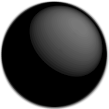
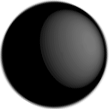
Added Reversi token rotation graphics

diff --git a/WebContent/js/src/reversi/ui/GameUIController.js b/WebContent/js/src/reversi/ui/GameUIController.js
@@ -3,26 +3,58 @@ var REVERSI = REVERSI = REVERSI || {};
 /**
  * @public
  * @constructor
- * @param {REVERSI.BoardCellGameEntity[]} boardCellGameEntities
  * @returns {REVERSI.GameUIController}
  */
-REVERSI.GameUIController = function(boardCellGameEntities) {
+REVERSI.GameUIController = function() {
 	GAME_LOOP.GameEntity.call(this, 0, 0, 0, 0);
 	
-	this.boardCellGameEntities = boardCellGameEntities;
+	this.boardCellGameEntities;
 	
 	this.reversiGameState;
 	this.reversiEvaluator;
 	this.gameArbiter;
 	
 	this.humanMovePosition;
-	true.waitAfterHumanMove = false;
-	
-	this.beginGame();
 };
 
 REVERSI.GameUIController.prototype = Object.create(GAME_LOOP.GameEntity.prototype);
 REVERSI.GameUIController.prototype.constructor = REVERSI.GameUIController;
+
+/**
+ * @private
+ * @param {MINIMAX.Player} cpuPlayer
+ * @param {Number} minimaxEvaluationHorizon
+ */
+REVERSI.GameUIController.prototype.beginGame =  function(cpuPlayer, minimaxEvaluationHorizon) {
+	this.reversiGameState = new REVERSI.ReversiGameState(MINIMAX.PLAYER_1);
+	this.reversiEvaluator = new REVERSI.ReversiEvaluator(cpuPlayer);
+	this.reversiEvaluator.addEvaluationCriterion(REVERSI.EVALUATION_CRITERIA_DICTIONARY["MOVE_COUNTER"]);
+	this.reversiEvaluator.addEvaluationCriterion(REVERSI.EVALUATION_CRITERIA_DICTIONARY["EDGE_TOKEN_COUNTER"]);
+	this.reversiEvaluator.evaluationHorizon = minimaxEvaluationHorizon;
+	this.gameArbiter = new MINIMAX.GameArbiter(this.reversiEvaluator, this.reversiGameState);
+	
+	var gameBoardEntity = new REVERSI.BoardGameEntity();
+	
+	var gameEntitiesIdx = 0;
+	var gameEntities = [];
+	var boardCellGameEntities = [];
+	gameEntities[gameEntitiesIdx++] = gameBoardEntity;		
+	for(var x = 0; x < 8; x++) {
+		boardCellGameEntities[x] = [];
+		for(var y = 0; y < 8; y++) {
+			var boardCellGameEntity = new REVERSI.BoardCellGameEntity(x, y);
+			gameEntities[gameEntitiesIdx++] = boardCellGameEntity;
+			boardCellGameEntities[x][y] = boardCellGameEntity;
+		}
+	}
+	this.boardCellGameEntities = boardCellGameEntities;
+	gameEntities[gameEntitiesIdx++] = this;
+	
+	var inputEventQueue = new GAME_LOOP.Queue(10);
+	new GAME_LOOP.CanvasMouseListener(inputEventQueue);
+	var gameLoop = new GAME_LOOP.GameLoop(gameEntities, inputEventQueue, REVERSI.UI.BOARD_SIZE, REVERSI.UI.BOARD_SIZE);
+	gameLoop.start();
+};
 
 /**
  * @public
@@ -40,28 +72,38 @@ REVERSI.GameUIController.prototype.processInput =  function(inputEvent) {
  * @public
  */
 REVERSI.GameUIController.prototype.updateState =  function() {
-	this.updateCellsTokens();
+	if(this.areTokensFlipping()) {
+		return;
+	}
 	if(this.reversiGameState.isGameEnded()) {
-		console.log("game ended");
 		return;
 	}
 	if(this.reversiGameState.getPlayerToMove() === this.gameArbiter.getCpuPlayer()) {
-		if(this.waitAfterHumanMove) {
-			this.waitAfterHumanMove = false;
-			return;
-		}
 		this.reversiGameState = this.gameArbiter.advanceGame();
+		this.updateCellsTokens();
 	} else {
 		if(this.humanMovePosition !== undefined) {
 			try {
 				this.reversiGameState = this.gameArbiter.advanceGame(this.humanMovePosition);
-				this.waitAfterHumanMove = true;
+				this.updateCellsTokens();	
 				this.humanMovePosition = undefined;
 			} catch(e) {
 				console.log(e);
 				this.humanMovePosition = undefined;
 			}
 		}
+	}
+};
+
+/**
+ * @public
+ * @param {CanvasRenderingContext2D} context
+ */
+REVERSI.GameUIController.prototype.updateGraphics =  function(context) {
+	if(this.areTokensFlipping()) {
+		$("body").css("cursor", "progress");
+	} else {
+		$("body").css("cursor", "default");
 	}
 };
 
@@ -84,22 +126,33 @@ REVERSI.GameUIController.prototype.highligtCell =  function(inputEvent) {
 /**
  * @private
  */
-REVERSI.GameUIController.prototype.updateCellsTokens =  function(inputEvent) {
-	for(var x = 0; x < 8; x++) {
-		for(var y = 0; y < 8; y++) {
-			this.boardCellGameEntities[x][y].tokenType = this.reversiGameState.getTokenType(x, y);
-		}
+REVERSI.GameUIController.prototype.updateCellsTokens =  function() {
+	var lastMove = this.reversiGameState.lastMove;
+	if(lastMove === undefined) {
+		return;
+	}
+	var tokenType = REVERSI.TOKEN_TYPE_WHITE;
+	if(lastMove.player === MINIMAX.PLAYER_1) {
+		tokenType = REVERSI.TOKEN_TYPE_BLACK;
+	}
+	this.boardCellGameEntities[lastMove.position.x][lastMove.position.y].tokenType = tokenType;
+	
+	for(var i = 0; i < lastMove.flippedTokensPositions.length; i++) {
+		var flippedPosition = lastMove.flippedTokensPositions[i];
+		this.boardCellGameEntities[flippedPosition.x][flippedPosition.y].flip();
 	}
 };
 
 /**
  * @private
  */
-REVERSI.GameUIController.prototype.beginGame =  function() {
-	this.reversiGameState = new REVERSI.ReversiGameState(MINIMAX.PLAYER_1);
-	this.reversiEvaluator = new REVERSI.ReversiEvaluator(MINIMAX.PLAYER_2);
-	this.reversiEvaluator.addEvaluationCriterion(REVERSI.EVALUATION_CRITERIA_DICTIONARY["MOVE_COUNTER"]);
-	this.reversiEvaluator.addEvaluationCriterion(REVERSI.EVALUATION_CRITERIA_DICTIONARY["EDGE_TOKEN_COUNTER"]);
-	this.reversiEvaluator.evaluationHorizon = 5;
-	this.gameArbiter = new MINIMAX.GameArbiter(this.reversiEvaluator, this.reversiGameState);
+REVERSI.GameUIController.prototype.areTokensFlipping = function() {
+	for(var x = 0; x < 8; x++) {
+		for(var y = 0; y < 8; y++) {
+			if(this.boardCellGameEntities[x][y].isFlipping()) {
+				return true;
+			}
+		}
+	}
+	return false;
 };

diff --git a/WebContent/js/src/reversi/ui/BoardCellGameEntity.js b/WebContent/js/src/reversi/ui/BoardCellGameEntity.js
@@ -5,10 +5,9 @@ var REVERSI = REVERSI = REVERSI || {};
  * @constructor
  * @param {Number} cellX
  * @param {Number} cellY
- * @param {REVERSI.TokenType} tokenType
  * @returns {REVERSI.BoardCellGameEntity}
  */
-REVERSI.BoardCellGameEntity = function(cellX, cellY, tokenType) {
+REVERSI.BoardCellGameEntity = function(cellX, cellY) {
 	GAME_LOOP.GameEntity.call(this, 
 			cellX * REVERSI.UI.CELL_SIZE, 
 			cellY * REVERSI.UI.CELL_SIZE, 
@@ -17,7 +16,14 @@ REVERSI.BoardCellGameEntity = function(cellX, cellY, tokenType) {
 	
 	this.cellX = cellX;
 	this.cellY = cellY;
-	this.tokenType = tokenType;
+	if((cellX == 3 && cellY == 3) || (cellX == 4 && cellY == 4)) {
+		this.tokenType = REVERSI.TOKEN_TYPE_WHITE;
+	} else if((cellX == 3 && cellY == 4) || (cellX == 4 && cellY == 3)) {
+		this.tokenType = REVERSI.TOKEN_TYPE_BLACK;
+	} else {
+		this.tokenType = REVERSI.TOKEN_TYPE_EMPTY;
+	}
+	
 	
 	this.imgWhiteToken = new Image();
 	this.imgWhiteToken.src = "img/token_white.png";
@@ -34,13 +40,13 @@ REVERSI.BoardCellGameEntity = function(cellX, cellY, tokenType) {
 	this.tokenAnimationB2W = new GAME_LOOP.AtlasAnimation(
 			REVERSI.UI.TOKEN_ROTATION_IMAGE_ATLAS, 
 			REVERSI.UI.TOKEN_ROTATION_FRAME_CROPS_B2W, 
-			11,
-			true);
+			11);
 	this.tokenAnimationW2B = new GAME_LOOP.AtlasAnimation(
 			REVERSI.UI.TOKEN_ROTATION_IMAGE_ATLAS, 
 			REVERSI.UI.TOKEN_ROTATION_FRAME_CROPS_W2B, 
-			11,
-			true);
+			11);
+	
+	this.currentFlipAnimation;
 };
 
 REVERSI.BoardCellGameEntity.prototype = Object.create(GAME_LOOP.GameEntity.prototype);
@@ -49,8 +55,42 @@ REVERSI.BoardCellGameEntity.prototype.constructor = REVERSI.BoardCellGameEntity;
 /**
  * @public
  */
+REVERSI.BoardCellGameEntity.prototype.setToken =  function(tokenType) {
+	this.tokenType = tokenType;
+};
+
+/**
+ * @public
+ */
+REVERSI.BoardCellGameEntity.prototype.flip =  function() {
+	this.tokenType = this.tokenType.opponentTokenType;
+	this.currentFlipAnimation = this.tokenAnimationB2W;
+	if(this.tokenType === REVERSI.TOKEN_TYPE_BLACK) {
+		this.currentFlipAnimation = this.tokenAnimationW2B;
+	}
+	this.currentFlipAnimation.start();
+};
+
+/**
+ * @public
+ */
+REVERSI.BoardCellGameEntity.prototype.isFlipping =  function() {
+	if(this.currentFlipAnimation === undefined) {
+		return false;
+	}
+	if(!this.currentFlipAnimation.isStarted()) {
+		return false;
+	}
+	return !this.currentFlipAnimation.isFinished();
+};
+
+/**
+ * @public
+ */
 REVERSI.BoardCellGameEntity.prototype.updateState =  function() {
-	
+	if(this.isFlipping()) {
+		this.currentFlipAnimation.onGameStateUpdate();
+	}
 };
 
 /**
@@ -62,11 +102,15 @@ REVERSI.BoardCellGameEntity.prototype.updateGraphics =  function(context) {
 		context.drawImage(this.imgHighlight, this.x + 1, this.y + 1, this.width - 1, this.height - 1);
 	}
 	
-	if(this.tokenType !== REVERSI.TOKEN_TYPE_EMPTY) {
-		var img = this.imgWhiteToken;
-		if(this.tokenType === REVERSI.TOKEN_TYPE_BLACK) {
-			img = this.imgBlackToken;
+	if(this.isFlipping()) {
+		this.currentFlipAnimation.onGraphicsUpdate(context, this.x + this.imgPadding, this.y + this.imgPadding);
+	} else {
+		if(this.tokenType !== REVERSI.TOKEN_TYPE_EMPTY) {
+			var img = this.imgWhiteToken;
+			if(this.tokenType === REVERSI.TOKEN_TYPE_BLACK) {
+				img = this.imgBlackToken;
+			}
+			context.drawImage(img, this.x + this.imgPadding, this.y + this.imgPadding, this.imgSize, this.imgSize);
 		}
-		context.drawImage(img, this.x + this.imgPadding, this.y + this.imgPadding, this.imgSize, this.imgSize);
 	}
 };

diff --git a/WebContent/ui/reversi/reversi.html b/WebContent/ui/reversi/reversi.html
@@ -6,7 +6,7 @@
 
 	<title>Minimax Reversi</title>
 	
-	<link type="text/css" href="../../css/main.css" rel="stylesheet">
+	<link type="text/css" href="css/reversi.css" rel="stylesheet">
 	
 	<script src="../../js/lib/jquery-1.11.1_.js"></script>
 	<script src="../../js/src/gameLoop/GameLoopConstants.js"></script>
@@ -31,36 +31,49 @@
 	<script src="../../js/src/reversi/ui/BoardGameEntity.js"></script>
 	<script src="../../js/src/reversi/ui/BoardCellGameEntity.js"></script>
 	<script src="../../js/src/reversi/ui/GameUIController.js"></script>
+	<script src="../../js/src/reversi/ui/UIController.js"></script>
 	<script>
 	$(document).ready(main);
 	
 	function main() {
-		
-		var gameBoardEntity = new REVERSI.BoardGameEntity();
-			
-		var gameEntitiesIdx = 0;
-		var gameEntities = [];
-		var boardCellGameEntities = [];
-		gameEntities[gameEntitiesIdx++] = gameBoardEntity;		
-		for(var x = 0; x < 8; x++) {
-			boardCellGameEntities[x] = [];
-			for(var y = 0; y < 8; y++) {
-				var boardCellGameEntity = new REVERSI.BoardCellGameEntity(x, y, REVERSI.TOKEN_TYPE_EMPTY);
-				gameEntities[gameEntitiesIdx++] = boardCellGameEntity;
-				boardCellGameEntities[x][y] = boardCellGameEntity;
-			}
-		}
-		gameEntities[gameEntitiesIdx++] = new REVERSI.GameUIController(boardCellGameEntities);	
-		
-		var inputEventQueue = new GAME_LOOP.Queue(10);
-		new GAME_LOOP.CanvasMouseListener(inputEventQueue);
-		var gameLoop = new GAME_LOOP.GameLoop(gameEntities, inputEventQueue, REVERSI.UI.BOARD_SIZE, REVERSI.UI.BOARD_SIZE);
-		gameLoop.start();
+		new REVERSI.UIController();
 	};
+	
 	</script>
 </head>
 <body>
 	<center>
+		<br>
+		<br>
+		<div style="text-align: right; width: 400px;display: block;">
+			<div>
+				Starting (black) player :
+				<select id="blackPlayerOwnerSelect">
+					<option value="HUMAN">Human</option>
+					<option value="CPU">A.I.</option>
+				</select>
+			</div>
+			<div>
+				Difficulty :
+				<select id="minimaxEvaluationHorizon">
+					<option value="2">Very easy</option>
+					<option value="3">Easy</option>
+					<option value="4" selected="selected">Medium</option>
+					<option value="5">Hard</option>
+				</select>
+			</div>
+		</div>
+		<br>
+		<br>
+		<div>	
+			<input type="button" id="startGameButton" value="Start">
+		</div>
+		<br>
+		<br>
+		<div id="gameOutcomeDiv" style="font-size: 1.2em; color: #FF9933;">
+		</div>
+		<br>
+		<br>
 		<canvas id="canvas"></canvas>
 	</center>
 </body>

diff --git a/WebContent/js/src/reversi/ui/UIController.js b/WebContent/js/src/reversi/ui/UIController.js
@@ -1,0 +1,17 @@
+var REVERSI = REVERSI = REVERSI || {};
+
+/**
+ * @public
+ * @constructor
+ * @returns {REVERSI.UIController}
+ */
+REVERSI.UIController = function() {
+	$("#startGameButton").click(function() {
+		var cpuPlayer = MINIMAX.PLAYER_1;
+		if($("#blackPlayerOwnerSelect").val() == "HUMAN") {
+			cpuPlayer = MINIMAX.PLAYER_2;
+		}
+		var minimaxEvaluationHorizon = parseInt($("#minimaxEvaluationHorizon").val(), 10);
+		new REVERSI.GameUIController().beginGame(cpuPlayer, minimaxEvaluationHorizon);
+	});
+};

diff --git a/WebContent/js/src/gameLoop/utils/AtlasAnimation.js b/WebContent/js/src/gameLoop/utils/AtlasAnimation.js
@@ -53,8 +53,9 @@ GAME_LOOP.AtlasAnimation.prototype.onGameStateUpdate = function() {
 	this.frameIdx += this.frameIdxIncrem; 
 	if(this.getActualFrameIdx() >= this.animationFramesCrops.length) {
 		if(!this.wrapAround) {
-			this.finished = true;
+			this.finished = false;
 			this.started = false;
+			this.frameIdx = -this.frameIdxIncrem;
 		} else {
 			this.frameIdx = 0;
 		}

diff --git a/WebContent/ui/reversi/css/reversi.css b/WebContent/ui/reversi/css/reversi.css
@@ -1,0 +1,5 @@
+body, select, option, input {
+	font-family: arial;
+	font-size: 1.0em;
+	font-weight: bold;
+}
